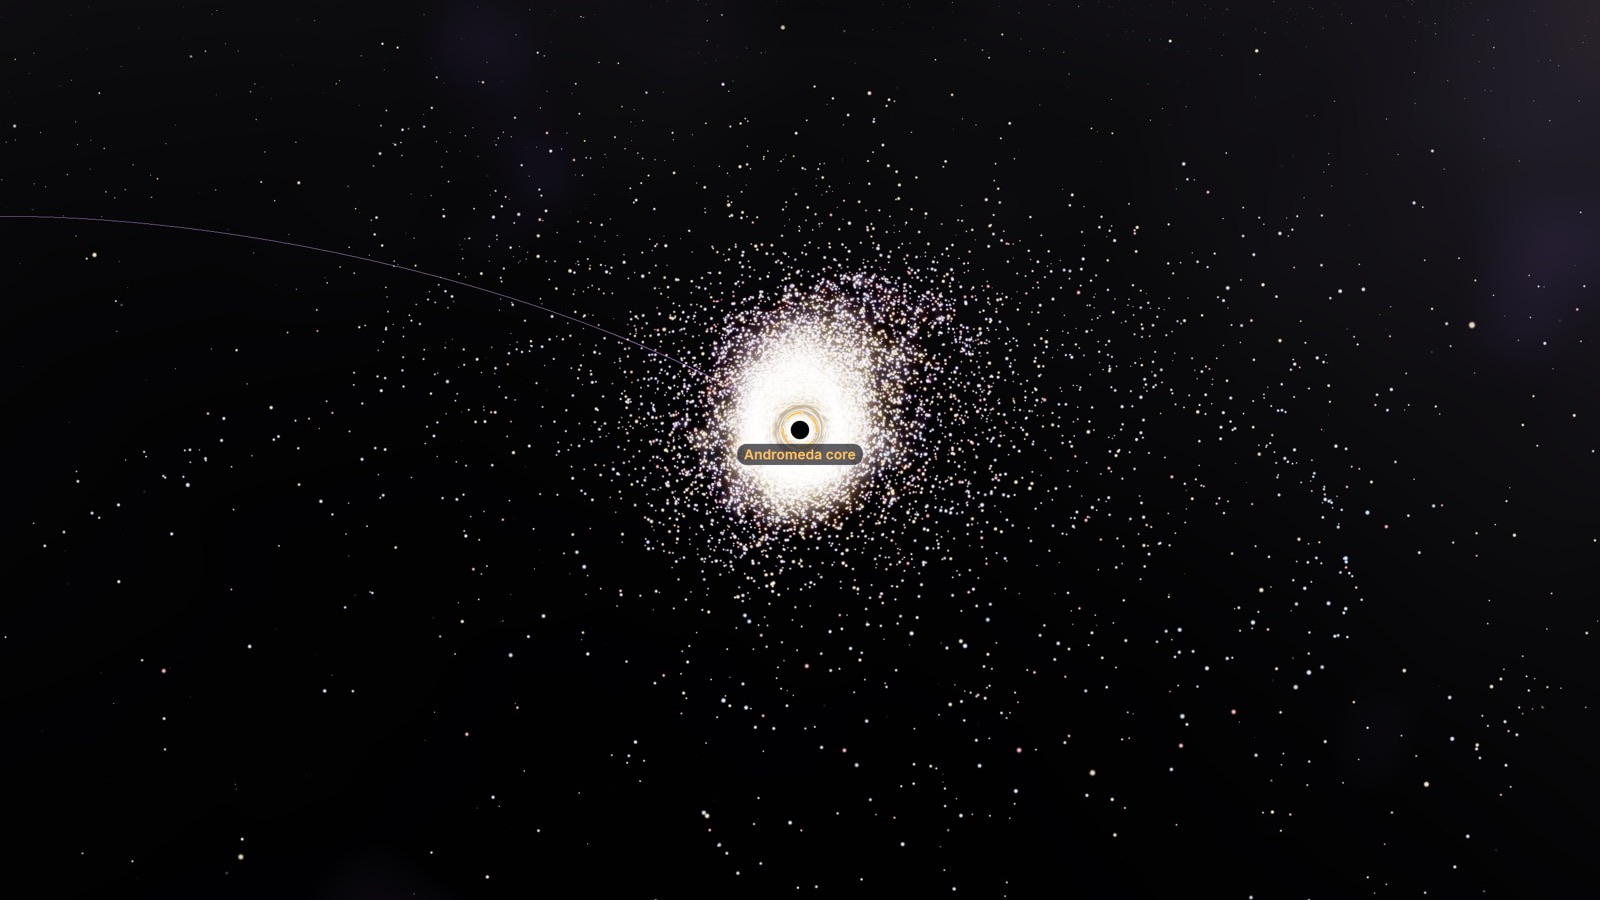
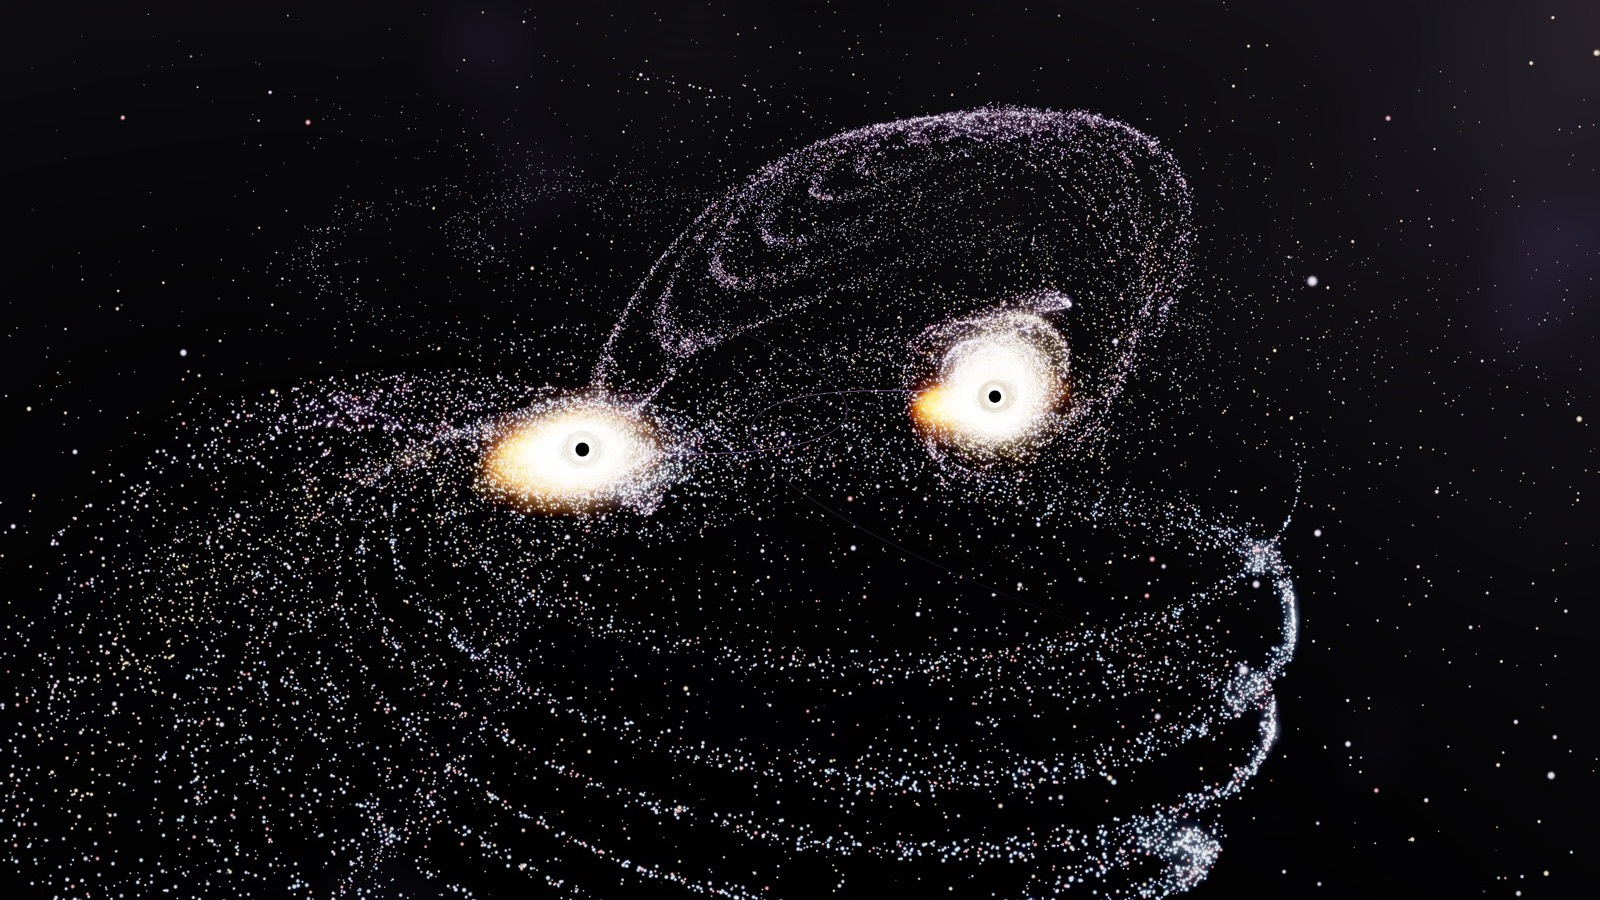
Better galaxy collision screenshot, and a sixth for planet smashes
The galaxy shot now catches both cores mid-collision, at the first close
pass, with spiral arms tangling into tidal tails. The new planet-smash shot
is the Theia impact a moment after contact: a molten young Earth and
Theia shattered into glowing debris. It fills the empty gallery cell.

diff --git a/README.md b/README.md
@@ -28,12 +28,12 @@ A space sandbox written in **Rust + Vulkan**. Start with the Solar System, then:
 
 | | |
 |---|---|
-| ![A supermassive black hole bending the light of its accretion disk](docs/screenshots/black-hole.jpg) | ![Two galaxies colliding, throwing out tidal tails](docs/screenshots/galaxy-collision.jpg) |
-| **Black hole:** lensing, a Doppler-beamed accretion disk and a photon ring | **Galaxy collision:** tens of thousands of stars and their tidal tails |
+| ![A supermassive black hole bending the light of its accretion disk](docs/screenshots/black-hole.jpg) | ![Two galaxies mid-collision, their spiral arms tangling into tidal tails](docs/screenshots/galaxy-collision.jpg) |
+| **Black hole:** lensing, a Doppler-beamed accretion disk and a photon ring | **Galaxy collision:** 68,000 stars, two cores and the tidal tails they fling out |
 | ![A rocket lifting off from Earth, with the flight panel below](docs/screenshots/flying.jpg) | ![Standing on Mars, with Phobos overhead and the conditions there](docs/screenshots/walking.jpg) |
 | **Flying:** lift off from any solid world under real gravity | **Walking:** stand on Mars and see what it's like there |
-| ![A blue supergiant's supernova blast wave](docs/screenshots/supernova.jpg) | |
-| **Supernova:** the blast wave, with a neutron star left behind | |
+| ![A blue supergiant's supernova blast wave](docs/screenshots/supernova.jpg) | ![Theia smashing into the young Earth, leaving it molten and surrounded by debris](docs/screenshots/planet-smash.jpg) |
+| **Supernova:** the blast wave, with a neutron star left behind | **Smash planets:** Theia hits the young Earth and shatters into glowing debris |
 
 ## Download
 
